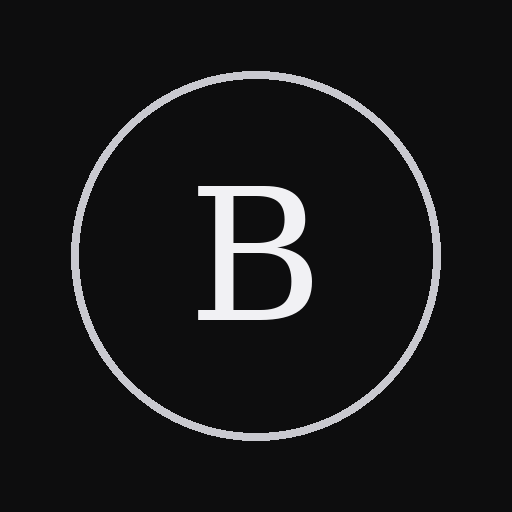
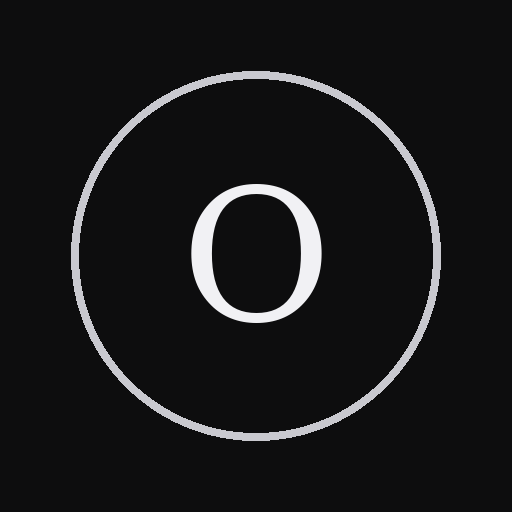
Renomme le site en OQUI (oquitogo.com)
- OQUI remplace BLUNA Graphisme : en-tête, titres, factures, admin,
  messages WhatsApp, e-mails et icônes
- Numéros de facture : OQUI-2026-001
- E-mail de contact : contact@oquitogo.com
- Une facture n'affiche plus les paiements en ligne abandonnés

Claude-Session: https://claude.ai/code/session_01Q6QghKwduuXeSi6Tr3xLeu

Changed region(s): [[0.375, 0.3438, 0.6562, 0.6562]]

diff --git a/src/components/admin/Inbox.tsx b/src/components/admin/Inbox.tsx
@@ -62,7 +62,7 @@ export default function Inbox() {
       }
       known.current = new Set(d.messages.map((m) => m.id));
       setMsgs(d.messages);
-      document.title = d.unread ? `(${d.unread}) Messages · BLUNA` : "Messages · BLUNA";
+      document.title = d.unread ? `(${d.unread}) Messages · OQUI` : "Messages · OQUI";
     } catch { setError("Connexion perdue, nouvelle tentative dans 15 s."); }
   }, []);
 
@@ -167,7 +167,7 @@ export default function Inbox() {
 
                 <div className="hero-actions">
                   {current.phone && <a className="btn" target="_blank" rel="noopener" onClick={() => setStatus(current.id, "repondu")} href={`https://wa.me/${phoneDigits(current.phone)}?text=${encodeURIComponent(reply(current))}`}>Répondre sur WhatsApp</a>}
-                  {current.email && <a className="btn btn-ghost" onClick={() => setStatus(current.id, "repondu")} href={`mailto:${current.email}?subject=${encodeURIComponent("Votre projet avec BLUNA Graphisme")}&body=${encodeURIComponent(reply(current))}`}>Répondre par e-mail</a>}
+                  {current.email && <a className="btn btn-ghost" onClick={() => setStatus(current.id, "repondu")} href={`mailto:${current.email}?subject=${encodeURIComponent("Votre projet avec OQUI")}&body=${encodeURIComponent(reply(current))}`}>Répondre par e-mail</a>}
                   {current.status !== "repondu" && <button className="btn btn-ghost" onClick={() => setStatus(current.id, "repondu")}>Marquer comme répondu</button>}
                   <button className="btn btn-ghost" onClick={() => setStatus(current.id, "archive")}>Archiver</button>
                 </div>

diff --git a/src/components/admin/BillingAdmin.tsx b/src/components/admin/BillingAdmin.tsx
@@ -51,8 +51,8 @@ export default function BillingAdmin({ projects }: { projects: { slug: string; t
   const shown = (invoices ?? []).filter((i) => filter === "toutes" ? true : filter === "ouvertes" ? i.status === "envoyee" || i.status === "partielle" || i.status === "brouillon" : i.status === filter);
 
   const copy = async (txt: string, msg: string) => { try { await navigator.clipboard.writeText(txt); setToast(msg); } catch { setToast(txt); } };
-  const invText = (i: Invoice) => `Bonjour ${i.client.name.split(" ")[0]}, voici votre facture ${i.number} (${i.title}) d'un montant de ${fcfa(i.total - i.amountPaid)}. Vous pouvez la consulter et la payer en ligne (T-Money, Flooz, carte) ici : ${origin}/facture/${i.token}\n\nMerci ! Antoine — BLUNA Graphisme`;
-  const spaceText = (c: Client) => `Bonjour ${c.name.split(" ")[0]}, voici votre espace client BLUNA Graphisme. Vous y trouverez toutes vos factures et pourrez les payer en ligne : ${origin}/espace/${c.token}`;
+  const invText = (i: Invoice) => `Bonjour ${i.client.name.split(" ")[0]}, voici votre facture ${i.number} (${i.title}) d'un montant de ${fcfa(i.total - i.amountPaid)}. Vous pouvez la consulter et la payer en ligne (T-Money, Flooz, carte) ici : ${origin}/facture/${i.token}\n\nMerci ! Antoine — OQUI`;
+  const spaceText = (c: Client) => `Bonjour ${c.name.split(" ")[0]}, voici votre espace client OQUI. Vous y trouverez toutes vos factures et pourrez les payer en ligne : ${origin}/espace/${c.token}`;
 
   async function act(url: string, body: unknown, ok: string, method = "PATCH") {
     const r = await api(url, method, body);

diff --git a/src/lib/invoices.ts b/src/lib/invoices.ts
@@ -16,10 +16,10 @@ export const parseLines = (s: string): Line[] => {
 
 export const linesTotal = (lines: Line[]) => lines.reduce((a, l) => a + Math.round(l.qty * l.unitPrice), 0);
 
-/** Numéro lisible et unique : BLU-2026-001, BLU-2026-002… */
+/** Numéro lisible et unique : OQUI-2026-001, OQUI-2026-002… */
 export async function nextNumber() {
   const year = new Date().getFullYear();
-  const prefix = `BLU-${year}-`;
+  const prefix = `OQUI-${year}-`;
   const last = await db.invoice.findFirst({ where: { number: { startsWith: prefix } }, orderBy: { number: "desc" }, select: { number: true } });
   const n = last ? parseInt(last.number.slice(prefix.length), 10) + 1 : 1;
   return `${prefix}${String(n).padStart(3, "0")}`;
@@ -63,7 +63,8 @@ export function toPublic(inv: Invoice & { client: Client; payments: Payment[] })
     overdue: isOverdue(inv),
     client: { name: inv.client.name, company: inv.client.company, token: inv.client.token },
     payments: inv.payments
-      .filter((p) => p.status === "valide" || p.status === "en_attente")
+      // Un paiement en ligne abandonné reste « en attente » chez nous : on ne montre que les transferts déclarés.
+      .filter((p) => p.status === "valide" || (p.status === "en_attente" && p.method === "mobile"))
       .map((p) => ({ id: p.id, amount: p.amount, method: p.method, status: p.status, createdAt: p.createdAt, confirmedAt: p.confirmedAt, reference: p.reference })),
   };
 }

diff --git a/src/app/(site)/page.tsx b/src/app/(site)/page.tsx
@@ -92,7 +92,7 @@ export default async function Home() {
           <Reveal className="about-copy" delay={0.1}>
             <p className="eyebrow">À propos</p>
             <h2 className="display section-title">Graphiste de formation, développeur par passion.</h2>
-            <p>Je suis {profile.name}, fondateur de <strong>{profile.studio}</strong> à Lomé. J'ai commencé par les logos et les affiches, puis j'ai voulu que mes clients puissent aussi vendre, réserver et s'organiser en ligne.</p>
+            <p>Je suis {profile.name}, fondateur d'<strong>{profile.studio}</strong> à Lomé. J'ai commencé par les logos et les affiches, puis j'ai voulu que mes clients puissent aussi vendre, réserver et s'organiser en ligne.</p>
             <p>Aujourd'hui, je dessine l'identité d'une marque et je développe le site ou l'application qui va avec : une boutique de luxe, un cabinet de santé, un sommet national, une application de services à domicile.</p>
             <ul className="chips-static">{["Illustrator", "Photoshop", "Canva", "Figma", "Next.js", "React", "Android", "Photographie"].map((s) => <li key={s}>{s}</li>)}</ul>
           </Reveal>

diff --git a/src/app/layout.tsx b/src/app/layout.tsx
@@ -7,10 +7,10 @@ const body = Lato({ subsets: ["latin"], weight: ["300", "400", "700"], variable:
 const mono = JetBrains_Mono({ subsets: ["latin"], weight: ["400", "500"], variable: "--f-mono", display: "swap" });
 
 export const metadata: Metadata = {
-  metadataBase: new URL(process.env.SITE_URL || "http://localhost:3000"),
-  title: { default: "BLUNA Graphisme — Antoine ANANI", template: "%s · BLUNA Graphisme" },
+  metadataBase: new URL(process.env.SITE_URL || "https://oquitogo.com"),
+  title: { default: "OQUI — Antoine ANANI, design & web à Lomé", template: "%s · OQUI" },
   description: "Antoine ANANI, web designer et graphiste à Lomé. Identité visuelle, sites et applications web, photographie.",
-  openGraph: { type: "website", locale: "fr_FR", siteName: "BLUNA Graphisme", images: ["/img/antoine-studio.webp"] },
+  openGraph: { type: "website", locale: "fr_FR", siteName: "OQUI", images: ["/img/antoine-studio.webp"] },
   manifest: "/manifest.webmanifest",
 };
 

diff --git a/src/components/admin/AdminNav.tsx b/src/components/admin/AdminNav.tsx
@@ -8,7 +8,7 @@ export default function AdminNav({ unread }: { unread?: number }) {
   const logout = async () => { await fetch("/api/admin/logout", { method: "POST" }); router.replace("/admin/connexion"); };
   return (
     <header className="admin-bar">
-      <Link href="/admin" className="brand"><span className="brand-mark">B</span><span className="brand-text">BLUNA <em>Admin</em></span></Link>
+      <Link href="/admin" className="brand"><span className="brand-mark">O</span><span className="brand-text">OQUI <em>Admin</em></span></Link>
       <nav className="admin-tabs">
         <Link href="/admin" aria-current={path === "/admin" ? "page" : undefined}>Messages{unread ? <b className="badge">{unread}</b> : null}</Link>
         <Link href="/admin/factures" aria-current={path.startsWith("/admin/factures") ? "page" : undefined}>Factures</Link>

diff --git a/src/app/(client)/layout.tsx b/src/app/(client)/layout.tsx
@@ -10,7 +10,7 @@ export default function ClientLayout({ children }: { children: React.ReactNode }
     <div className="billing">
       <header className="billing-bar no-print">
         <div className="wrap billing-bar-inner">
-          <Link href="/" className="brand"><span className="brand-mark">B</span><span className="brand-text">BLUNA <em>Graphisme</em></span></Link>
+          <Link href="/" className="brand"><span className="brand-mark">O</span><span className="brand-text">OQUI</span></Link>
           <span className="mono secure"><svg width="12" height="12" viewBox="0 0 24 24" fill="none" aria-hidden="true"><rect x="5" y="11" width="14" height="10" rx="2" stroke="currentColor" strokeWidth="2" /><path d="M8 11V8a4 4 0 118 0v3" stroke="currentColor" strokeWidth="2" /></svg> Lien privé</span>
         </div>
       </header>

diff --git a/src/components/Header.tsx b/src/components/Header.tsx
@@ -26,9 +26,9 @@ export default function Header() {
   return (
     <header className={`topbar${scrolled ? " scrolled" : ""}`}>
       <div className="wrap topbar-inner">
-        <Link href="/" className="brand" aria-label="BLUNA Graphisme, accueil">
-          <span className="brand-mark">B</span>
-          <span className="brand-text">BLUNA <em>Graphisme</em></span>
+        <Link href="/" className="brand" aria-label="OQUI, accueil">
+          <span className="brand-mark">O</span>
+          <span className="brand-text">OQUI</span>
         </Link>
         <nav className={`nav${open ? " open" : ""}`} id="nav" aria-label="Navigation principale">
           {links.map((l) => (

diff --git a/src/lib/notify.ts b/src/lib/notify.ts
@@ -37,7 +37,7 @@ async function email(subject: string, text: string, replyTo?: string) {
   if (!SMTP_HOST || !SMTP_USER || !SMTP_PASS || !NOTIFY_EMAIL) return;
   const port = Number(SMTP_PORT || 465);
   const t = nodemailer.createTransport({ host: SMTP_HOST, port, secure: port === 465, auth: { user: SMTP_USER, pass: SMTP_PASS } });
-  await t.sendMail({ from: `BLUNA Portfolio <${SMTP_USER}>`, to: NOTIFY_EMAIL, subject, text, replyTo: replyTo || undefined });
+  await t.sendMail({ from: `OQUI <${SMTP_USER}>`, to: NOTIFY_EMAIL, subject, text, replyTo: replyTo || undefined });
 }
 
 /** Envoie une alerte libre (Telegram + e-mail). N'échoue jamais. */

diff --git a/src/app/(site)/projets/[slug]/page.tsx b/src/app/(site)/projets/[slug]/page.tsx
@@ -16,7 +16,7 @@ type Props = { params: Promise<{ slug: string }> };
 export async function generateMetadata({ params }: Props): Promise<Metadata> {
   const p = await getProject((await params).slug);
   if (!p) return { title: "Projet introuvable" };
-  return { title: p.title, description: p.summary, openGraph: { title: `${p.title} · BLUNA Graphisme`, description: p.summary, images: [p.cover] } };
+  return { title: p.title, description: p.summary, openGraph: { title: `${p.title} · OQUI`, description: p.summary, images: [p.cover] } };
 }
 
 export default async function ProjectPage({ params }: Props) {

diff --git a/src/components/ContactForm.tsx b/src/components/ContactForm.tsx
@@ -9,7 +9,7 @@ import { budgets, contactServices, deadlines, profile } from "@/content/site";
 type Ref = { slug: string; title: string; cover: string; coverBg: string; category: string; summary: string; contain: boolean } | null;
 type Errors = Partial<Record<"name" | "body" | "phone" | "email" | "form", string>>;
 
-const DRAFT = "bluna-brouillon";
+const DRAFT = "oqui-brouillon";
 const serviceFor = (cat?: string) => (cat === "web" ? ["web"] : cat === "photo" ? ["photo"] : cat === "identite" ? ["identite"] : []);
 
 export default function ContactForm({ reference }: { reference: Ref }) {

diff --git a/src/app/admin/connexion/page.tsx b/src/app/admin/connexion/page.tsx
@@ -19,7 +19,7 @@ function Login() {
   return (
     <main className="admin-login">
       <form onSubmit={submit} className="admin-login-card">
-        <span className="brand-mark" style={{ width: 48, height: 48, fontSize: "1.3rem" }}>B</span>
+        <span className="brand-mark" style={{ width: 48, height: 48, fontSize: "1.3rem" }}>O</span>
         <h1 className="display" style={{ fontSize: "2rem" }}>Espace admin</h1>
         <p className="mono">Messages clients et gestion des projets</p>
         <label className={`field${error ? " invalid" : ""}`} style={{ width: "100%" }}>
